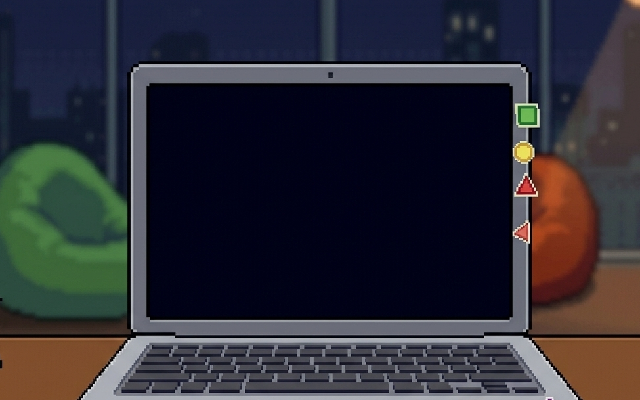
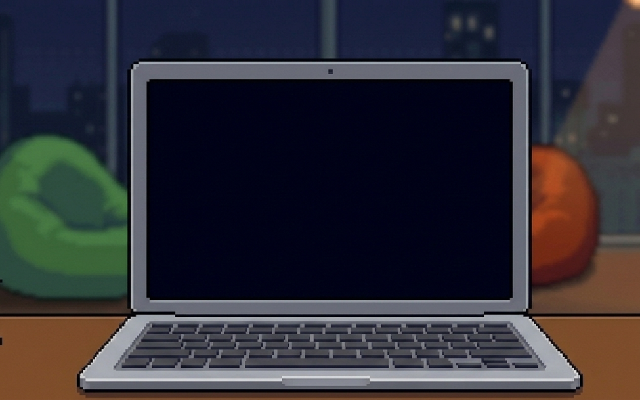
art: room-ch5 pager and laptop stickers removed (2026-11-13)
Claude-Session: https://claude.ai/code/session_014bw7Voj6ZyqA75pqeRWNHh

diff --git a/art-drops/2026-11-12-room-ch5/HANDBACK.md b/art-drops/2026-11-12-room-ch5/HANDBACK.md
@@ -33,7 +33,6 @@ From `briefs/art/01-rooms-2-5.md` (room 5) and `briefs/art/02-persona-cards.md` 
 | `pc`: coffee table with the laptop (left) | 0, 128, 118, 68 | x 96 |
 | `monitor`: dashboard monitor on its stand | 115, 24, 90, 104 | no walk; the tap opens the close-up |
 | `npc`: engineer on the sofa (right) | 232, 85, 88, 113 | x 200 |
-| `pager` (optional) | 194, 173, 18, 11 | — |
 | `pinball` (optional, background) | 250, 42, 68, 83 | — |
 
 **Walking:** feet on y 192; hero's left edge from x 0 to x 292. Open floor x 118–232. The hero standing at x 200 is in front of the pager.
@@ -80,6 +79,10 @@ They differ from the plate only inside **x 238–320, y 38–200** (his figure).
   - `ch5.pc.email.3` "Whose bike is on the wall": there's no bike now; the pinball machine could take the joke ("Whose pinball machine is this").
   - The pinball machine has no look line yet.
   - The pager and the sofa match.
+
+- **The pager is gone (Rick, 2026-11-13).** The pager belongs to the Honeycomb Hero (the intro), not this engineer, so it's removed from the plate and every NPC frame; drop the `pager` hotspot and `ch5.look.pager`, and fix `ch5.room.enter` ("A pager face-down on the floor"). The floor where it was is plain.
+- **The sticker shapes on the laptop close-up's bezel are gone**; the screen rectangle is unchanged (x 73–256, y 41–159).
+- **Pinball look line (Rick's):** "You already hit your 5-hour token spend today."
 
 ## Flaws kept
 
